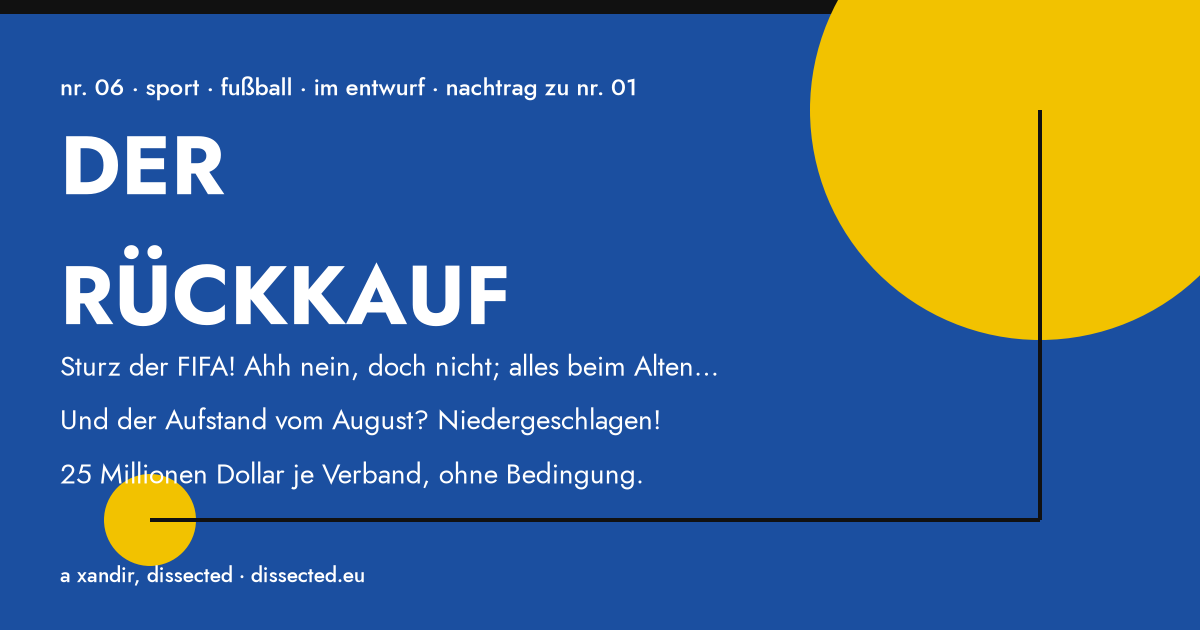
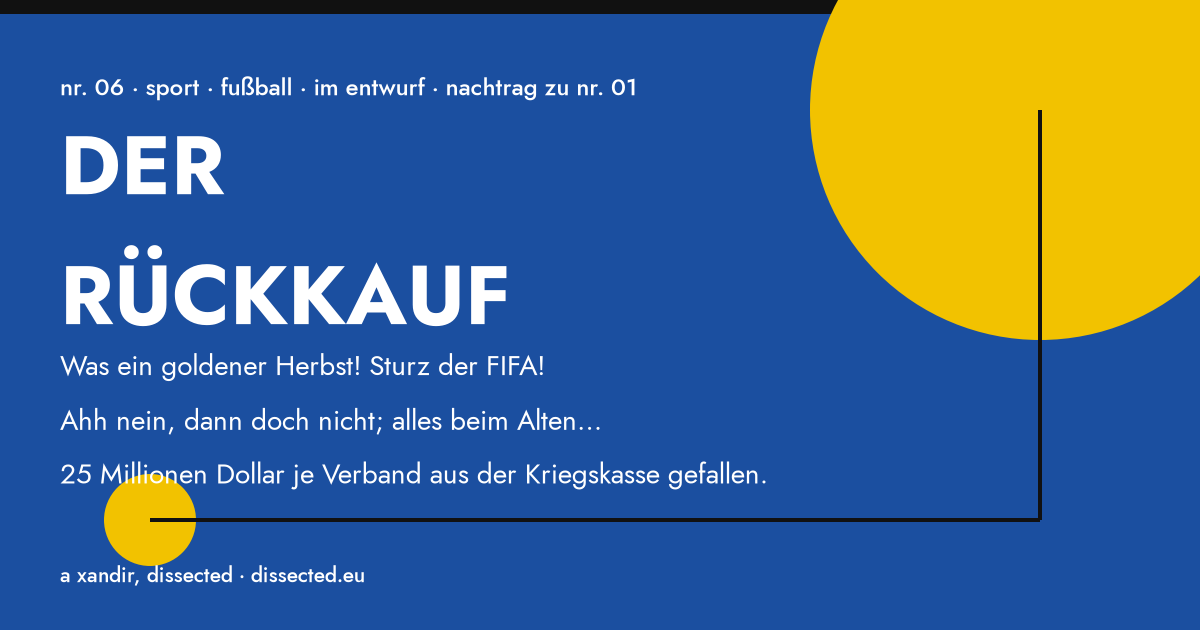
№ 06: Untertitel in der Fassung des Autors (Startseite, Feed, Beschreibung, Vorschaubild)

Changed region(s): [[0.0308, 0.6333, 0.555, 0.6937], [0.0308, 0.5429, 0.5858, 0.6032], [0.3392, 0.7238, 0.6475, 0.7841]]

diff --git a/de/analysen/006-der-rueckkauf.html b/de/analysen/006-der-rueckkauf.html
@@ -9,7 +9,7 @@
 <link rel="preload" href="/fonts/jost-latin-400-normal.woff2" as="font" type="font/woff2" crossorigin>
 <link rel="preload" href="/fonts/jost-latin-700-normal.woff2" as="font" type="font/woff2" crossorigin>
 <title>Der Rückkauf – FIFA nach dem Aufstand gegen Infantino | dissected</title>
-<meta name="description" content="Sturz der FIFA! Ahh nein, doch nicht; alles beim Alten… Und der Aufstand vom August? Niedergeschlagen! 25 Millionen Dollar je Verband, ohne Bedingung.">
+<meta name="description" content="Was ein goldener Herbst! Sturz der FIFA! Ahh nein, dann doch nicht; alles beim Alten… 25 Millionen Dollar je Verband aus der Kriegskasse gefallen.">
 <meta name="robots" content="max-image-preview:large">
 <script>(function(){try{var m=localStorage.getItem('modus');if(m==='dunkel'||(!m&&window.matchMedia('(prefers-color-scheme: dark)').matches)){document.documentElement.setAttribute('data-theme','dark')}}catch(e){}})();</script>
 <link rel="stylesheet" href="../../styles.css">
@@ -23,14 +23,14 @@
 <meta property="og:locale" content="de_DE">
 <meta property="og:url" content="https://www.dissected.eu/de/analysen/006-der-rueckkauf.html">
 <meta property="og:title" content="Der Rückkauf">
-<meta property="og:description" content="Sturz der FIFA! Ahh nein, doch nicht; alles beim Alten… Und der Aufstand vom August? Niedergeschlagen! 25 Millionen Dollar je Verband, ohne Bedingung.">
+<meta property="og:description" content="Was ein goldener Herbst! Sturz der FIFA! Ahh nein, dann doch nicht; alles beim Alten… 25 Millionen Dollar je Verband aus der Kriegskasse gefallen.">
 <meta property="og:image" content="https://www.dissected.eu/og/006-rueckkauf.png">
 <meta property="og:image:width" content="1200">
 <meta property="og:image:height" content="630">
 <meta property="og:image:alt" content="Der Rückkauf – № 06, sport, fußball">
 <meta name="twitter:card" content="summary_large_image">
 <meta name="twitter:title" content="Der Rückkauf">
-<meta name="twitter:description" content="Sturz der FIFA! Ahh nein, doch nicht; alles beim Alten… Und der Aufstand vom August? Niedergeschlagen! 25 Millionen Dollar je Verband, ohne Bedingung.">
+<meta name="twitter:description" content="Was ein goldener Herbst! Sturz der FIFA! Ahh nein, dann doch nicht; alles beim Alten… 25 Millionen Dollar je Verband aus der Kriegskasse gefallen.">
 <meta name="twitter:image" content="https://www.dissected.eu/og/006-rueckkauf.png">
 <meta name="author" content="a xandir">
 <meta property="article:author" content="https://www.dissected.eu/de/ueber.html">
@@ -41,7 +41,7 @@
 <meta property="article:tag" content="Infantino">
 <meta property="article:tag" content="Wiederwahl 2027">
 <meta name="keywords" content="FIFA, Gianni Infantino, Wiederwahl 2027, Forward Enterprise, UEFA, AFC, CAF, Kandidatenfrist, Mafia-Raster, Rückkauf, Kongress Rabat">
-<script type="application/ld+json">{"@context": "https://schema.org", "@type": "Article", "headline": "Der Rückkauf", "description": "Sturz der FIFA! Ahh nein, doch nicht; alles beim Alten… Und der Aufstand vom August? Niedergeschlagen! 25 Millionen Dollar je Verband, ohne Bedingung.", "image": "https://www.dissected.eu/og/006-rueckkauf.png", "inLanguage": "de", "datePublished": "2026-11-14", "dateModified": "2026-11-14", "articleSection": "sport", "keywords": "FIFA, Gianni Infantino, Wiederwahl 2027, Forward Enterprise, UEFA, AFC, CAF, Kandidatenfrist, Mafia-Raster, Rückkauf, Kongress Rabat", "author": {"@type": "Person", "name": "a xandir", "url": "https://www.dissected.eu/de/ueber.html"}, "publisher": {"@type": "Person", "name": "a xandir", "url": "https://www.dissected.eu/de/ueber.html"}, "mainEntityOfPage": "https://www.dissected.eu/de/analysen/006-der-rueckkauf.html", "isAccessibleForFree": true, "isPartOf": "https://www.dissected.eu/de/analysen/001-der-fall-des-infantino.html", "creativeWorkStatus": "Draft"}</script>
+<script type="application/ld+json">{"@context": "https://schema.org", "@type": "Article", "headline": "Der Rückkauf", "description": "Was ein goldener Herbst! Sturz der FIFA! Ahh nein, dann doch nicht; alles beim Alten… 25 Millionen Dollar je Verband aus der Kriegskasse gefallen.", "image": "https://www.dissected.eu/og/006-rueckkauf.png", "inLanguage": "de", "datePublished": "2026-11-14", "dateModified": "2026-11-14", "articleSection": "sport", "keywords": "FIFA, Gianni Infantino, Wiederwahl 2027, Forward Enterprise, UEFA, AFC, CAF, Kandidatenfrist, Mafia-Raster, Rückkauf, Kongress Rabat", "author": {"@type": "Person", "name": "a xandir", "url": "https://www.dissected.eu/de/ueber.html"}, "publisher": {"@type": "Person", "name": "a xandir", "url": "https://www.dissected.eu/de/ueber.html"}, "mainEntityOfPage": "https://www.dissected.eu/de/analysen/006-der-rueckkauf.html", "isAccessibleForFree": true, "isPartOf": "https://www.dissected.eu/de/analysen/001-der-fall-des-infantino.html", "creativeWorkStatus": "Draft"}</script>
 <script type="application/ld+json">{"@context": "https://schema.org", "@type": "BreadcrumbList", "itemListElement": [{"@type": "ListItem", "position": 1, "name": "a xandir, dissected", "item": "https://www.dissected.eu/de/index.html"}, {"@type": "ListItem", "position": 2, "name": "archiv · sport", "item": "https://www.dissected.eu/de/archiv.html#sport"}, {"@type": "ListItem", "position": 3, "name": "№ 06 · Der Rückkauf", "item": "https://www.dissected.eu/de/analysen/006-der-rueckkauf.html"}]}</script>
 <!-- /seo -->
 <script data-goatcounter="https://xandir.goatcounter.com/count" async src="/zaehler.js"></script>

diff --git a/de/index.html b/de/index.html
@@ -60,7 +60,7 @@
   <div class="plakat__text">
     <p class="meta">№ 06 <span class="neutral">· sport · fußball · 14.11.2026</span> · im entwurf · nachtrag zu № 01</p>
     <h1 class="titel titel--plakat"><a href="/de/analysen/006-der-rueckkauf.html">Der Rückkauf</a></h1>
-    <p class="untertitel">Was ein goldener Herbst! Sturz der FIFA! Ahh nein, doch nicht; alles beim Alten… Und der Aufstand vom August? Niedergeschlagen! 25 Millionen Dollar je Verband, ohne Bedingung.</p>
+    <p class="untertitel">Was ein goldener Herbst! Sturz der FIFA! Bewegung gegen den Status quo, dann Aufbruch in die Reform, abgerundet durch Verfall ins mediale Vergessen. Ahh nein, dann doch nicht; alles beim Alten… Und der Aufstand vom August? Niedergeschlagen! 25 Millionen Dollar je Verband aus der Kriegskasse gefallen.</p>
   </div>
   <a class="komposition" href="/de/analysen/006-der-rueckkauf.html" aria-label="№ 06, im Entwurf">
     <span class="form form--balken schwarz" style="width:100%;height:14px;top:0;left:0"></span>

diff --git a/charts/006_vorschau.py b/charts/006_vorschau.py
@@ -30,7 +30,7 @@ ax.add_patch(Rectangle((1038, 110), 4, 410, color=FARBEN['schwarz'], lw=0))
 ax.text(60, 560, 'nr. 06 · sport · fußball · im entwurf · nachtrag zu nr. 01', fontsize=17, color=WEISS, fontproperties=SCHRIFT[500], va='top')
 ax.text(60, 525, 'DER\nRÜCKKAUF', fontsize=60, color=WEISS, fontproperties=SCHRIFT[700], va='top', linespacing=1.0)
 # Sätze des Autors aus dem Lead, keine eigene Zusammenfassung (Entscheidung 14.11.2026)
-ax.text(60, 290, 'Sturz der FIFA! Ahh nein, doch nicht; alles beim Alten…\nUnd der Aufstand vom August? Niedergeschlagen!\n25 Millionen Dollar je Verband, ohne Bedingung.',
+ax.text(60, 290, 'Was ein goldener Herbst! Sturz der FIFA!\nAhh nein, dann doch nicht; alles beim Alten…\n25 Millionen Dollar je Verband aus der Kriegskasse gefallen.',
         fontsize=20, color=WEISS, fontproperties=SCHRIFT[400], va='top', linespacing=1.35)
 ax.text(60, 40, 'a xandir, dissected · dissected.eu', fontsize=15, color=WEISS, fontproperties=SCHRIFT[500], va='bottom')
 f.savefig(os.path.join(OUT, '006-rueckkauf.png'), dpi=100, facecolor=flaeche)
